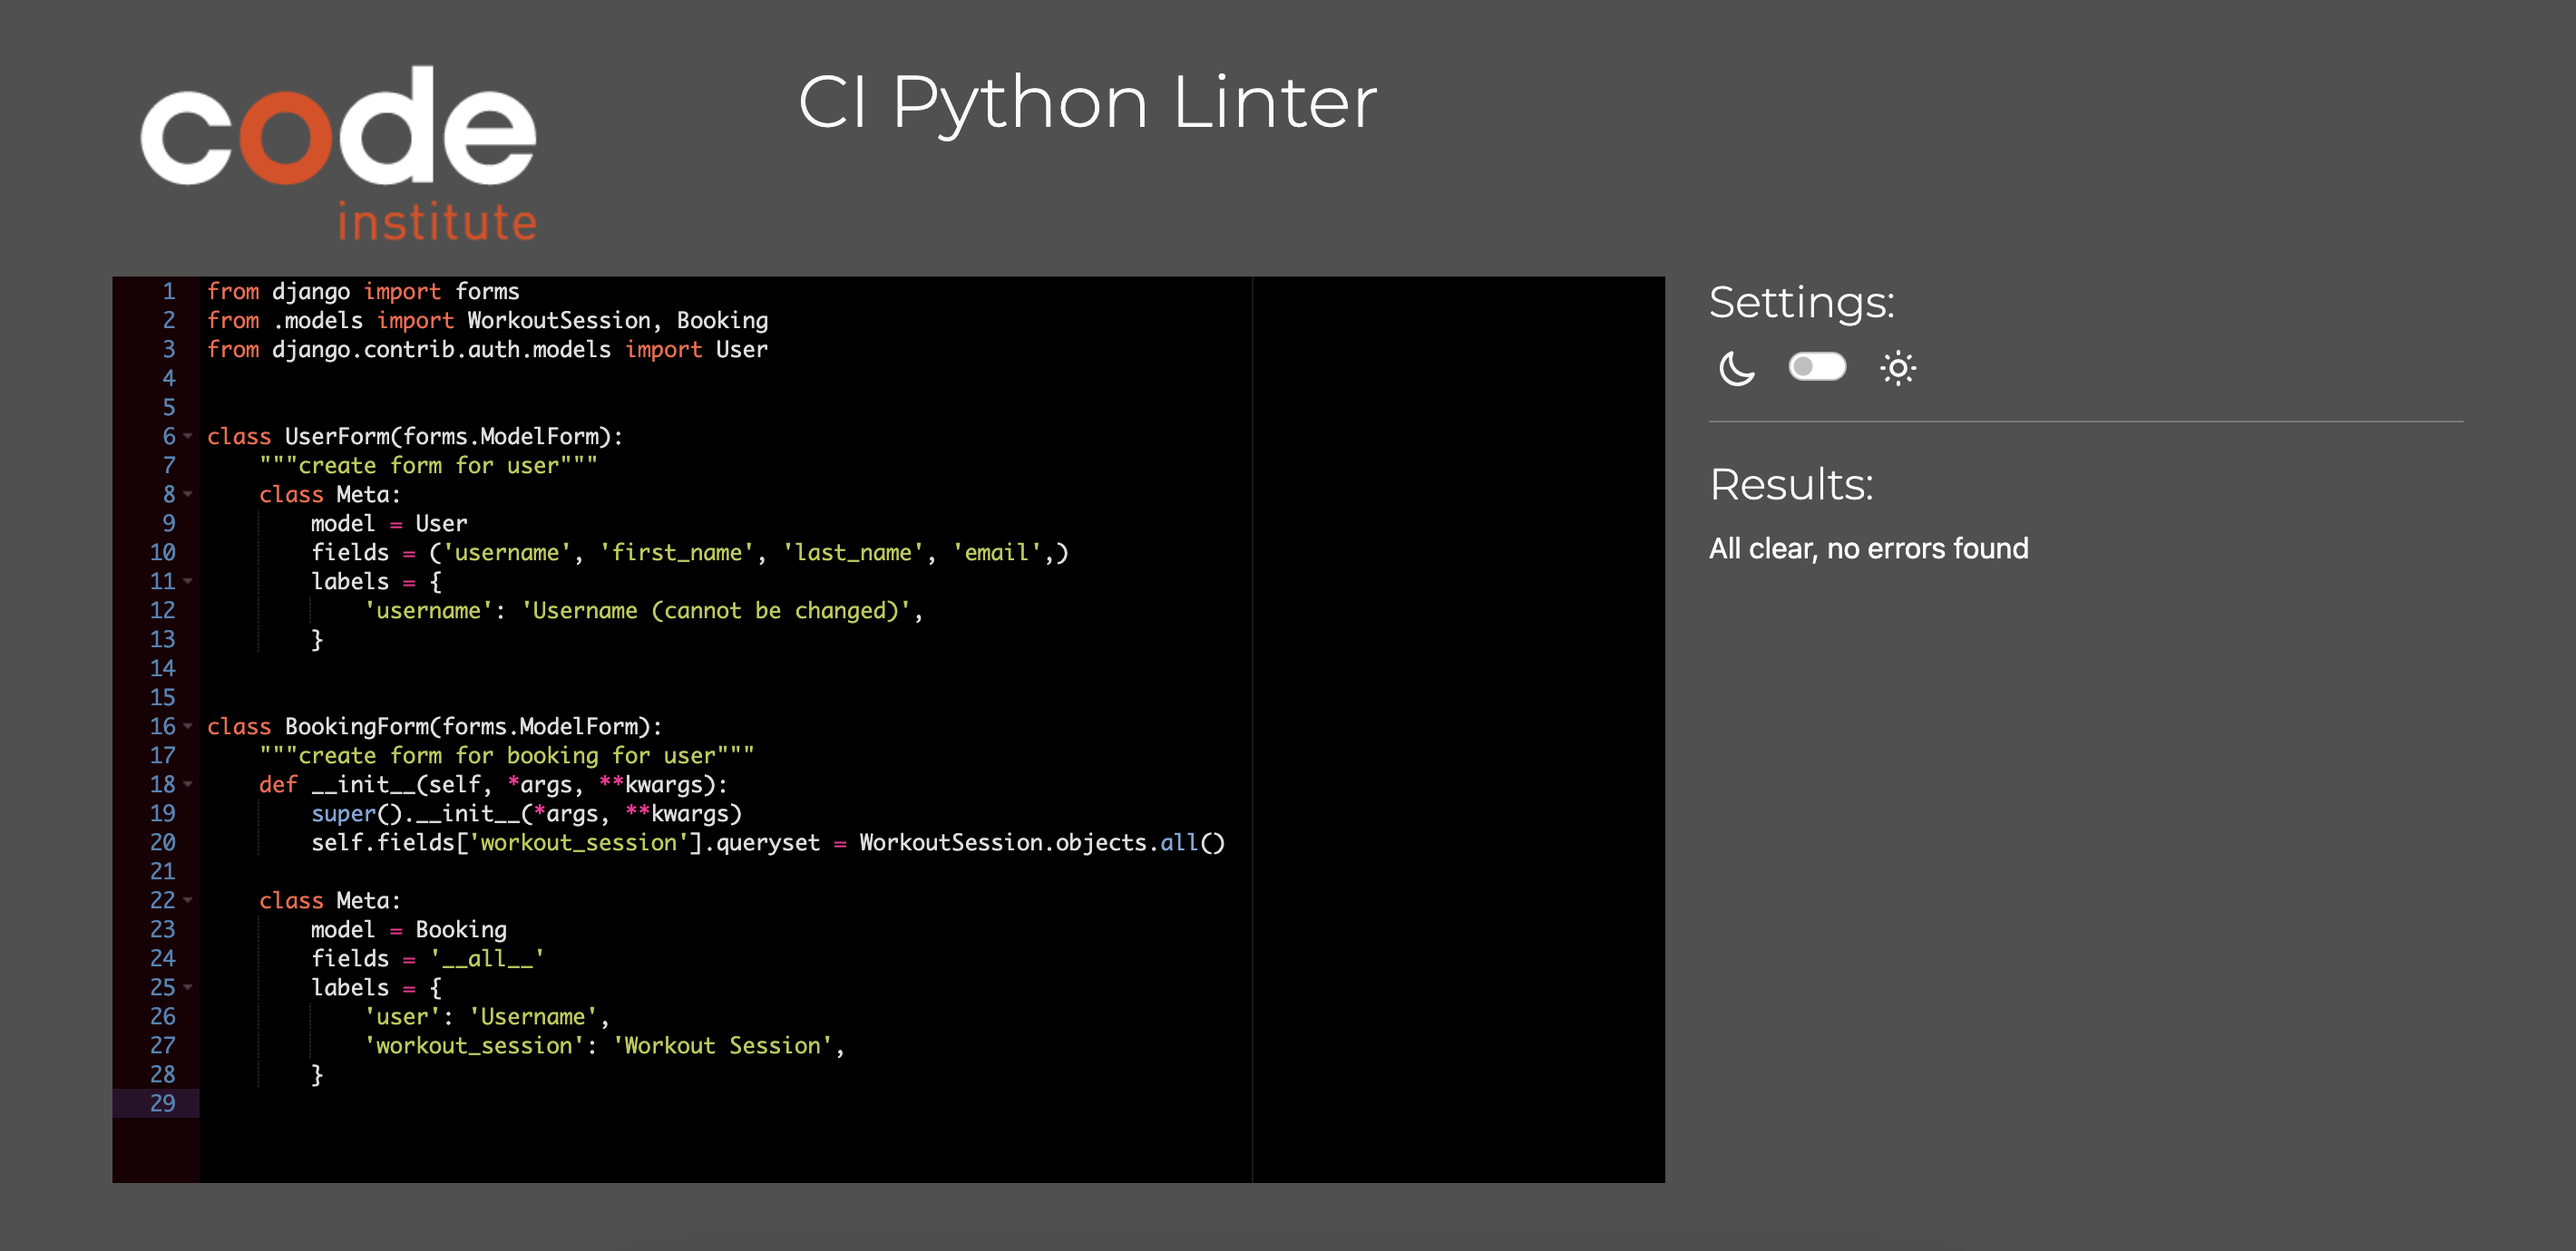
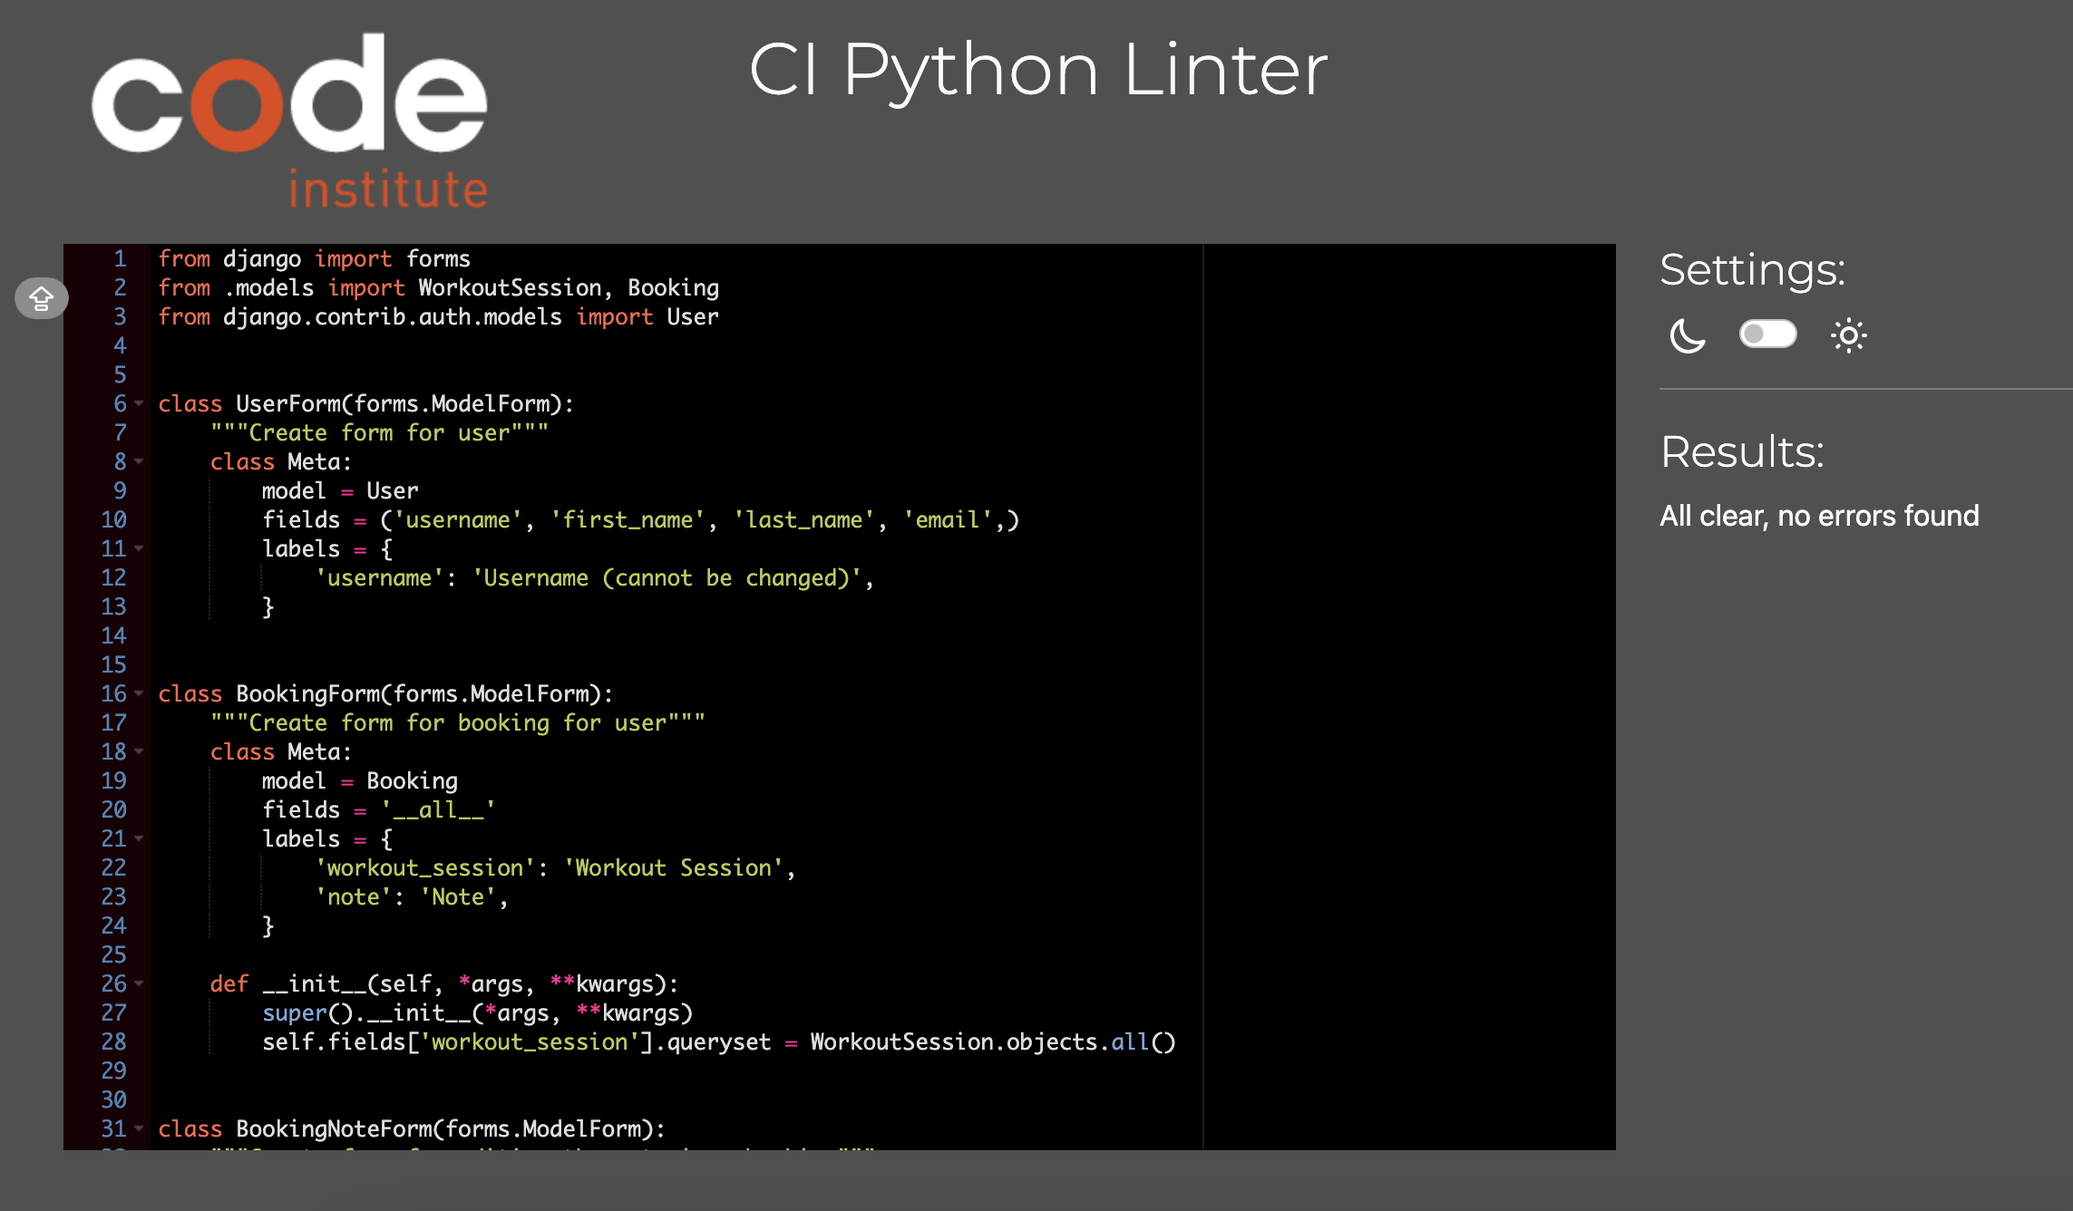
minor changes in linter and add new images of linter

Changed region(s): [[0.0, 0.0307, 0.9628, 0.9513], [0.3106, 0.0307, 0.6522, 0.1228], [0.4038, 0.8593, 0.528, 0.89]]

diff --git a/templates/my_bookings.html b/templates/my_bookings.html
@@ -9,23 +9,23 @@
             </div>
             <ul class="list-group">
                 {% for booking in user_bookings %}
-                    <li class="list-group-item">
-                        <div class="booking-details">
-                            <p><strong>Title:</strong> {{ booking.workout_session.title }}</p>
-                            <p><strong>Day:</strong> {{ booking.workout_session.day }}</p>
-                            <p><strong>Time:</strong> {{ booking.workout_session.time }}</p>
-                            <p><strong>Instructor:</strong> {{ booking.workout_session.instructor_name }}</p>
-                            <p><strong>Note:</strong> {{ booking.note }}</p> <!-- Show the note here -->
-                        </div>
-                        <a href="{% url 'delete_booking' booking.id %}" class="card-link btn btn-danger mt-3 mb-3">
-                            <i class="fa-solid fa-pen-to-square"></i> Delete
-                        </a>
-                        <a href="{% url 'edit_booking' booking.id %}" class="card-link btn btn-primary mt-3 mb-3">
-                            <i class="fa-solid fa-pen-to-square"></i> Edit
-                        </a>
-                    </li>
+                <li class="list-group-item">
+                    <div class="booking-details">
+                        <p><strong>Title:</strong> {{ booking.workout_session.title }}</p>
+                        <p><strong>Day:</strong> {{ booking.workout_session.day }}</p>
+                        <p><strong>Time:</strong> {{ booking.workout_session.time }}</p>
+                        <p><strong>Instructor:</strong> {{ booking.workout_session.instructor_name }}</p>
+                        <p><strong>Note:</strong> {{ booking.note }}</p>
+                    </div>
+                    <a href="{% url 'delete_booking' booking.id %}" class="card-link btn btn-danger mt-3 mb-3">
+                        <i class="fa-solid fa-pen-to-square"></i> Delete
+                    </a>
+                    <a href="{% url 'edit_booking' booking.id %}" class="card-link btn btn-primary mt-3 mb-3">
+                        <i class="fa-solid fa-pen-to-square"></i> Edit
+                    </a>
+                </li>
                 {% empty %}
-                    <li class="list-group-item">No bookings found.</li>
+                <li class="list-group-item">No bookings found.</li>
                 {% endfor %}
             </ul>
         </div>

diff --git a/signup/views.py b/signup/views.py
@@ -112,10 +112,14 @@ def book_session(request, session_id):
         return redirect('../accounts/signup')
 
 
-
 def edit_booking(request, booking_id):
+    """ user can edit booking with a note"""
     if request.user.is_authenticated:
-        booking_to_edit = get_object_or_404(Booking, id=booking_id, user=request.user)
+        booking_to_edit = get_object_or_404(
+            Booking,
+            id=booking_id,
+            user=request.user
+        )
 
         if booking_to_edit.user == request.user:
             if request.method == 'POST':
@@ -137,28 +141,6 @@ def edit_booking(request, booking_id):
     else:
         return redirect('../accounts/signup')
 
-"""
-def edit_booking(request, booking_id):
-    if request.user.is_authenticated:
-        booking_to_edit = get_object_or_404(Booking, id=booking_id, user=request.user)
-
-        if request.method == 'POST':
-            form = BookingForm(request.POST, instance=booking_to_edit)
-            if form.is_valid():
-                form.save()
-                messages.success(request, 'Booking has been updated')
-                return redirect('my_bookings')
-        else:
-            form = BookingForm(instance=booking_to_edit)
-
-        context = {
-            'form': form,
-            'booking_to_edit': booking_to_edit,
-        }
-        return render(request, 'edit_booking.html', context)
-    else:
-        return redirect('../accounts/signup')
-"""
 
 def delete_booking(request, session_id):
     """ this allows the user to delete a booking, send them to the

diff --git a/signup/forms.py b/signup/forms.py
@@ -26,7 +26,7 @@ class BookingForm(forms.ModelForm):
     def __init__(self, *args, **kwargs):
         super().__init__(*args, **kwargs)
         self.fields['workout_session'].queryset = WorkoutSession.objects.all()
-        
+
 
 class BookingNoteForm(forms.ModelForm):
     """Create form for editing the note in a booking"""

diff --git a/signup/admin.py b/signup/admin.py
@@ -11,8 +11,9 @@ class WorkoutSessionAdmin(admin.ModelAdmin):
         'instructor_name',
         'day',
         'available_spots',
-        'booked_spots',
-)
+        'booked_spots'
+    )
+
 
 @admin.register(Booking)
 # create booking opporunities based on the workout sessions in admin panel
